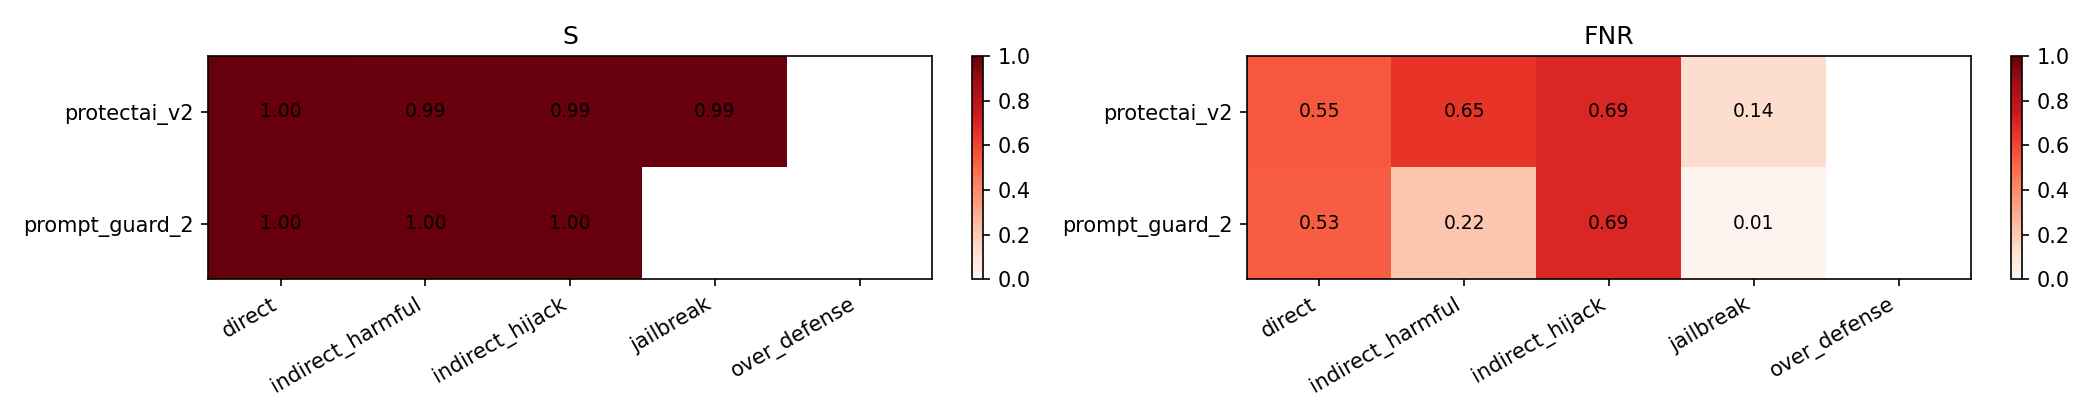
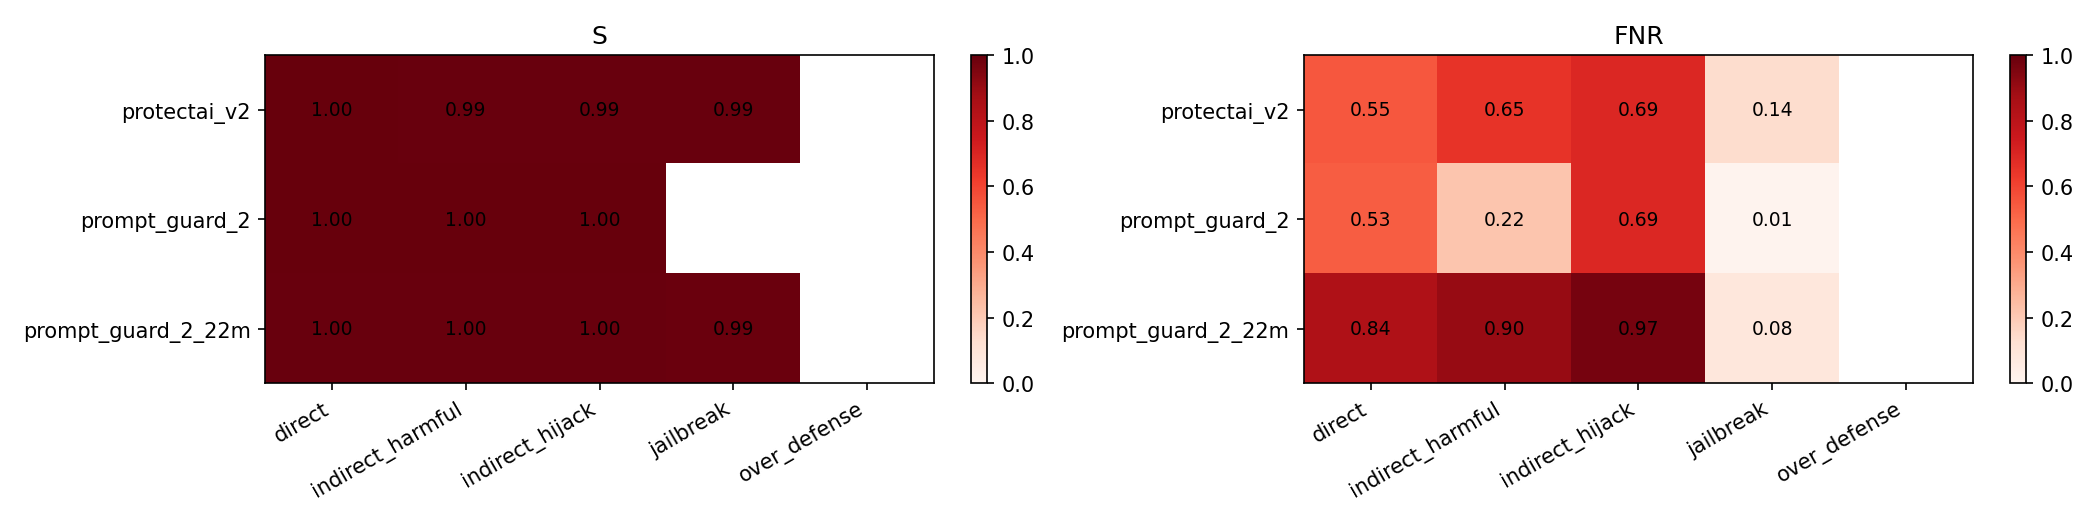
Transport panel: detectors x shifts with FNR/S/benignFPR/AUROC + bootstrap CIs

diff --git a/reports/RESULTS_LOG.md b/reports/RESULTS_LOG.md
@@ -126,3 +126,43 @@ prompt_guard_2  indirect_hijack 0.004    150    778 0.693   0.620   0.767 0.998 
 prompt_guard_2        jailbreak 0.004    396    398 0.010   0.003   0.020   NaN   NaN   NaN         4       0.166  0.993
 prompt_guard_2     over_defense 0.004      0    339   NaN     NaN     NaN   NaN   NaN   NaN         0       0.192    NaN
 ```
+
+
+---
+## Transport panel (detectors x shifts, severity + bootstrap CIs)
+_2026-06-21 03:41_
+
+```
+          detector            shift     t  n_atk  n_ben   FNR  FNR_lo  FNR_hi     S  S_lo  S_hi  n_misses  benign_FPR  AUROC
+      protectai_v2           direct 0.028    263    399 0.548   0.483   0.605 0.999 0.998 0.999       144       0.010  0.882
+      protectai_v2 indirect_harmful 0.028     60    778 0.650   0.533   0.767 0.995 0.993 0.997        39       0.397  0.444
+      protectai_v2  indirect_hijack 0.028    150    778 0.693   0.620   0.767 0.993 0.992 0.995       104       0.397  0.424
+      protectai_v2        jailbreak 0.028    396    398 0.136   0.104   0.169 0.995 0.993 0.997        54       0.013  0.986
+      protectai_v2     over_defense 0.028      0    339   NaN     NaN     NaN   NaN   NaN   NaN         0       0.460    NaN
+    prompt_guard_2           direct 0.004    263    399 0.532   0.468   0.593 0.999 0.999 0.999       140       0.010  0.942
+    prompt_guard_2 indirect_harmful 0.004     60    778 0.217   0.117   0.333 0.998 0.997 0.998        13       0.145  0.894
+    prompt_guard_2  indirect_hijack 0.004    150    778 0.693   0.620   0.767 0.998 0.998 0.998       104       0.145  0.625
+    prompt_guard_2        jailbreak 0.004    396    398 0.010   0.003   0.020   NaN 0.998 0.999         4       0.166  0.993
+    prompt_guard_2     over_defense 0.004      0    339   NaN     NaN     NaN   NaN   NaN   NaN         0       0.192    NaN
+prompt_guard_2_22m           direct 0.021    263    399 0.837   0.791   0.878 0.996 0.995 0.996       220       0.010  0.777
+prompt_guard_2_22m indirect_harmful 0.021     60    778 0.900   0.817   0.967 0.996 0.995 0.996        54       0.027  0.694
+prompt_guard_2_22m  indirect_hijack 0.021    150    778 0.967   0.933   0.993 0.996 0.996 0.997       145       0.027  0.585
+prompt_guard_2_22m        jailbreak 0.021    396    398 0.083   0.058   0.114 0.990 0.988 0.992        33       0.196  0.955
+prompt_guard_2_22m     over_defense 0.021      0    339   NaN     NaN     NaN   NaN   NaN   NaN         0       0.130    NaN
+
+TRANSPORT PANEL READ:
+[protectai_v2] direct: FNR=0.548, AUROC=0.882
+   indirect_harmful: FNR=0.65 S=0.995 (CI 0.993-0.997) misses=39
+   indirect_hijack: FNR=0.693 S=0.993 (CI 0.992-0.995) misses=104
+   jailbreak: FNR=0.136 S=0.995 (CI 0.993-0.997) misses=54
+   over_defense benign_FPR=0.46
+[prompt_guard_2] direct: FNR=0.532, AUROC=0.942
+   indirect_harmful: FNR=0.217 S=0.998 (CI 0.997-0.998) misses=13
+   indirect_hijack: FNR=0.693 S=0.998 (CI 0.998-0.998) misses=104
+   over_defense benign_FPR=0.192
+[prompt_guard_2_22m] direct: FNR=0.837, AUROC=0.777
+   indirect_harmful: FNR=0.9 S=0.996 (CI 0.995-0.996) misses=54
+   indirect_hijack: FNR=0.967 S=0.996 (CI 0.996-0.997) misses=145
+   jailbreak: FNR=0.083 S=0.99 (CI 0.988-0.992) misses=33
+   over_defense benign_FPR=0.13
+```